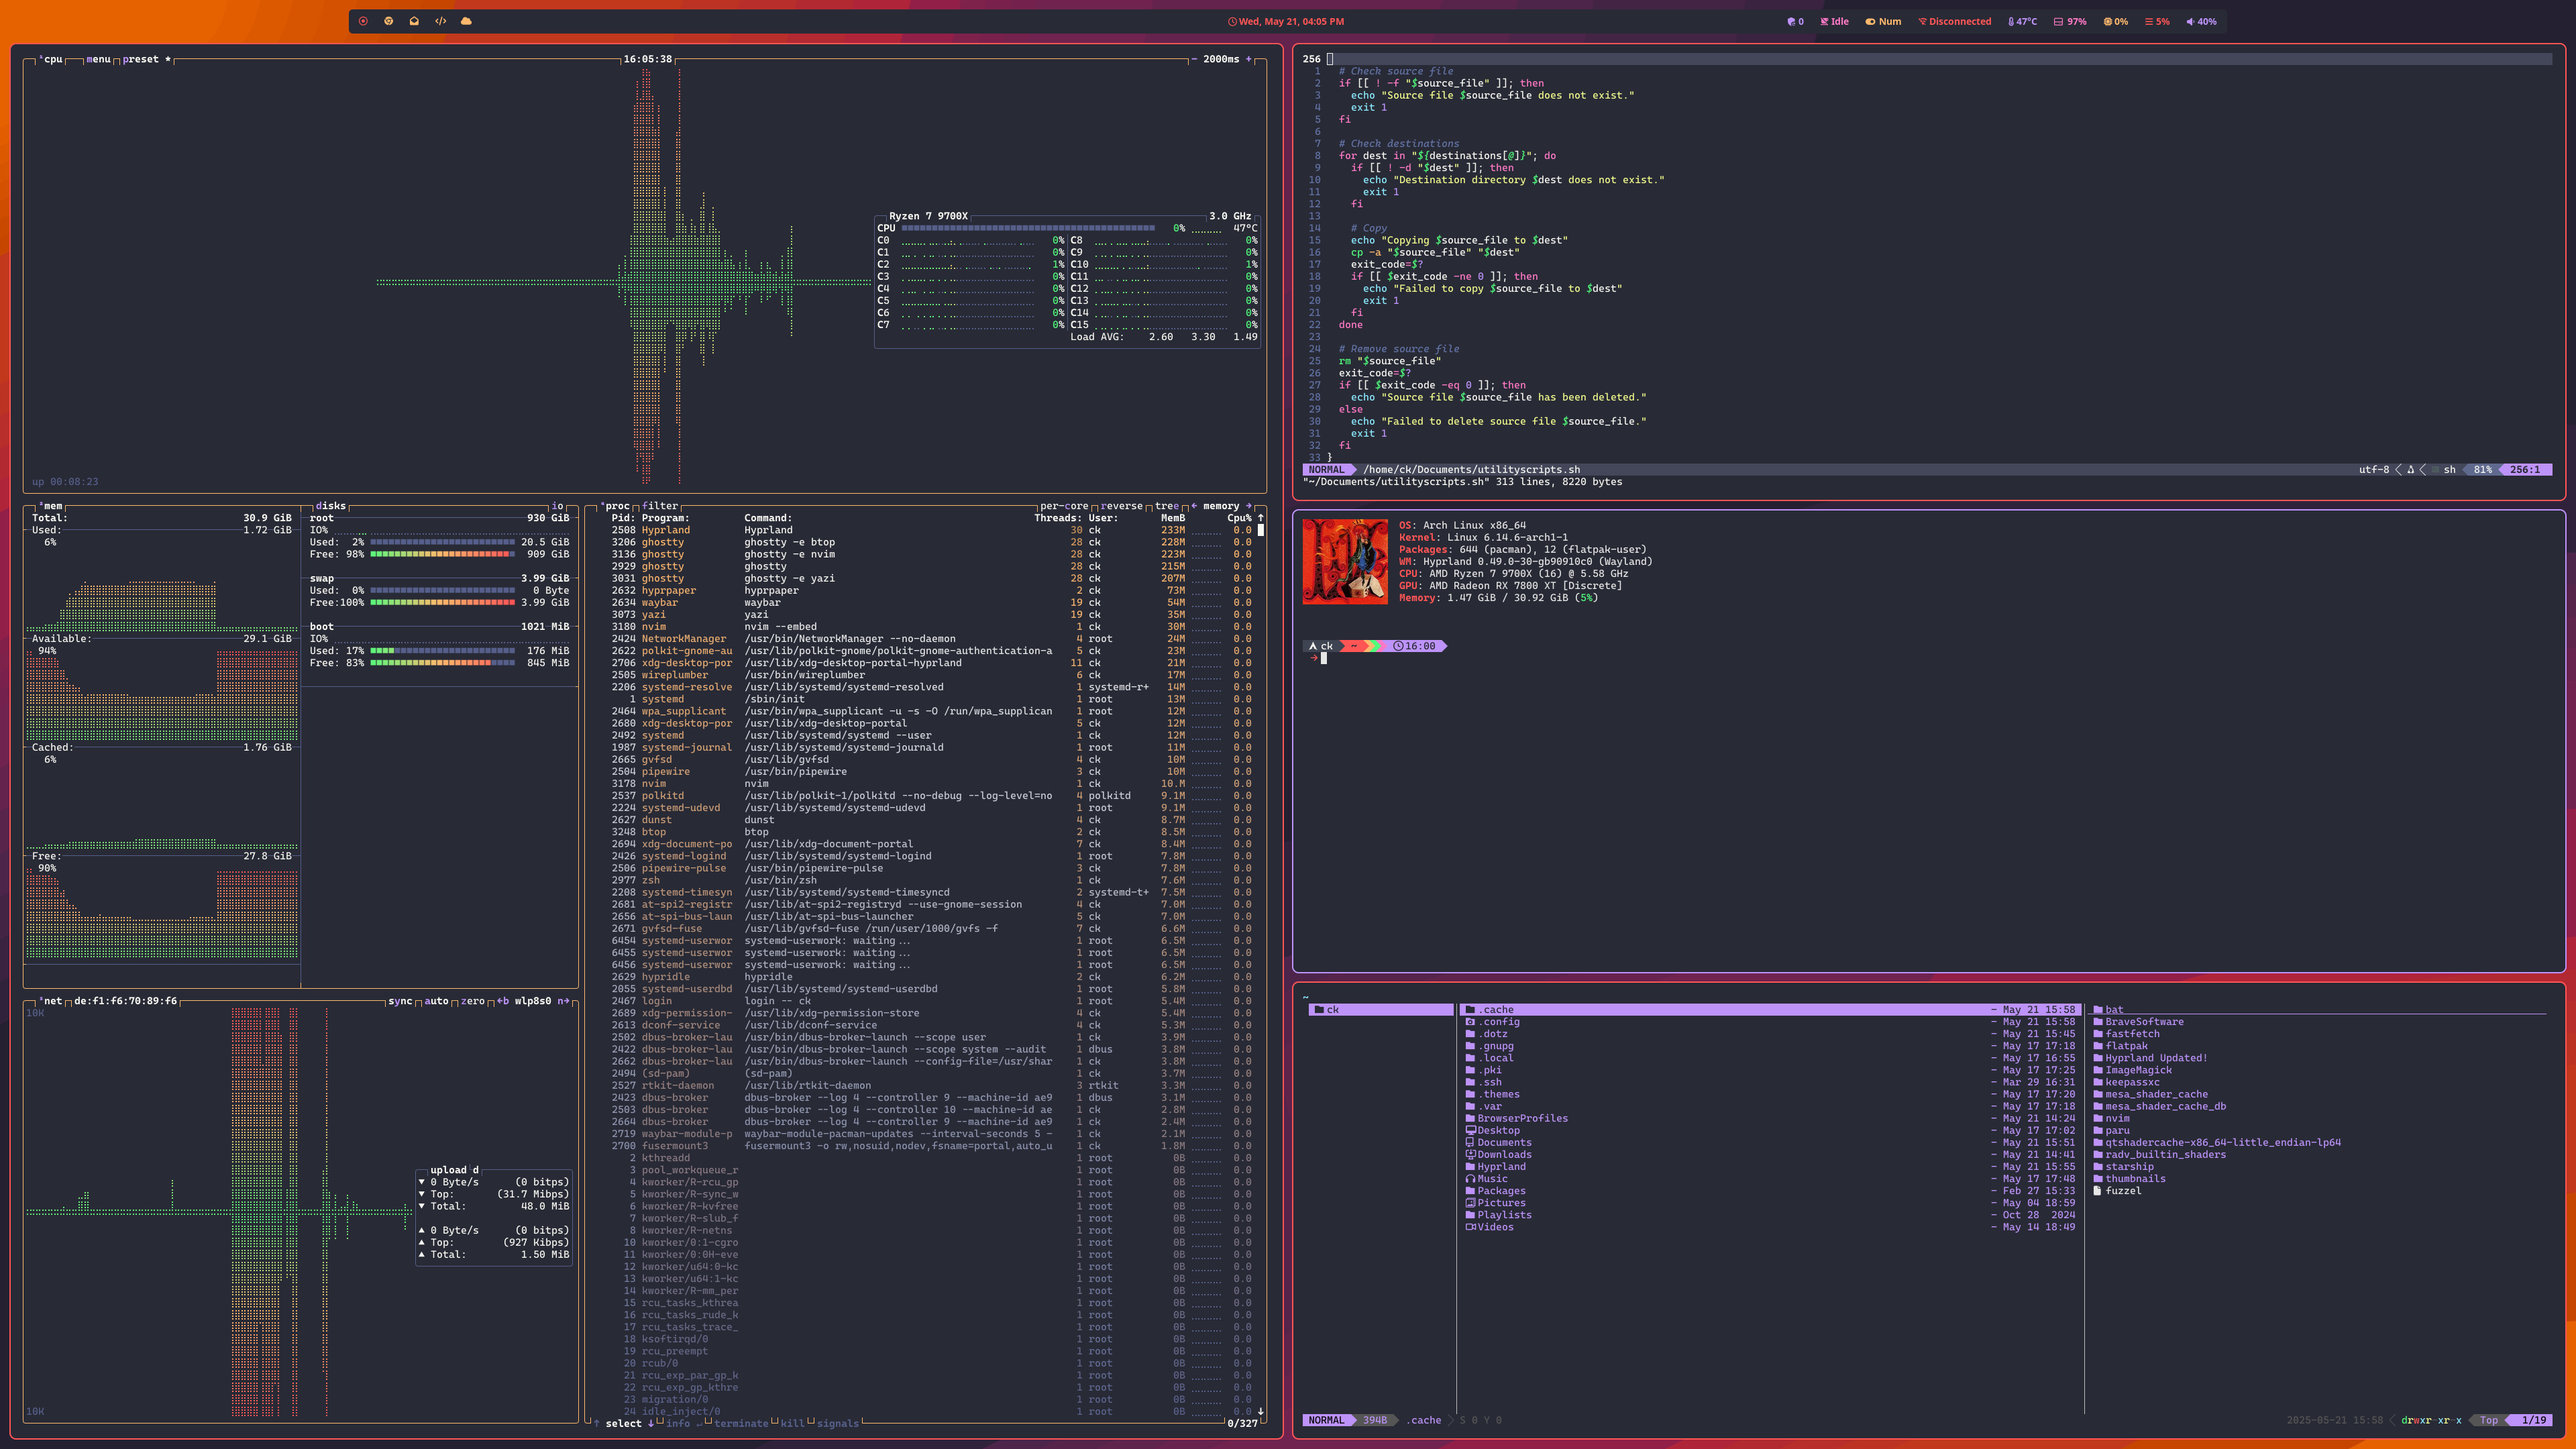
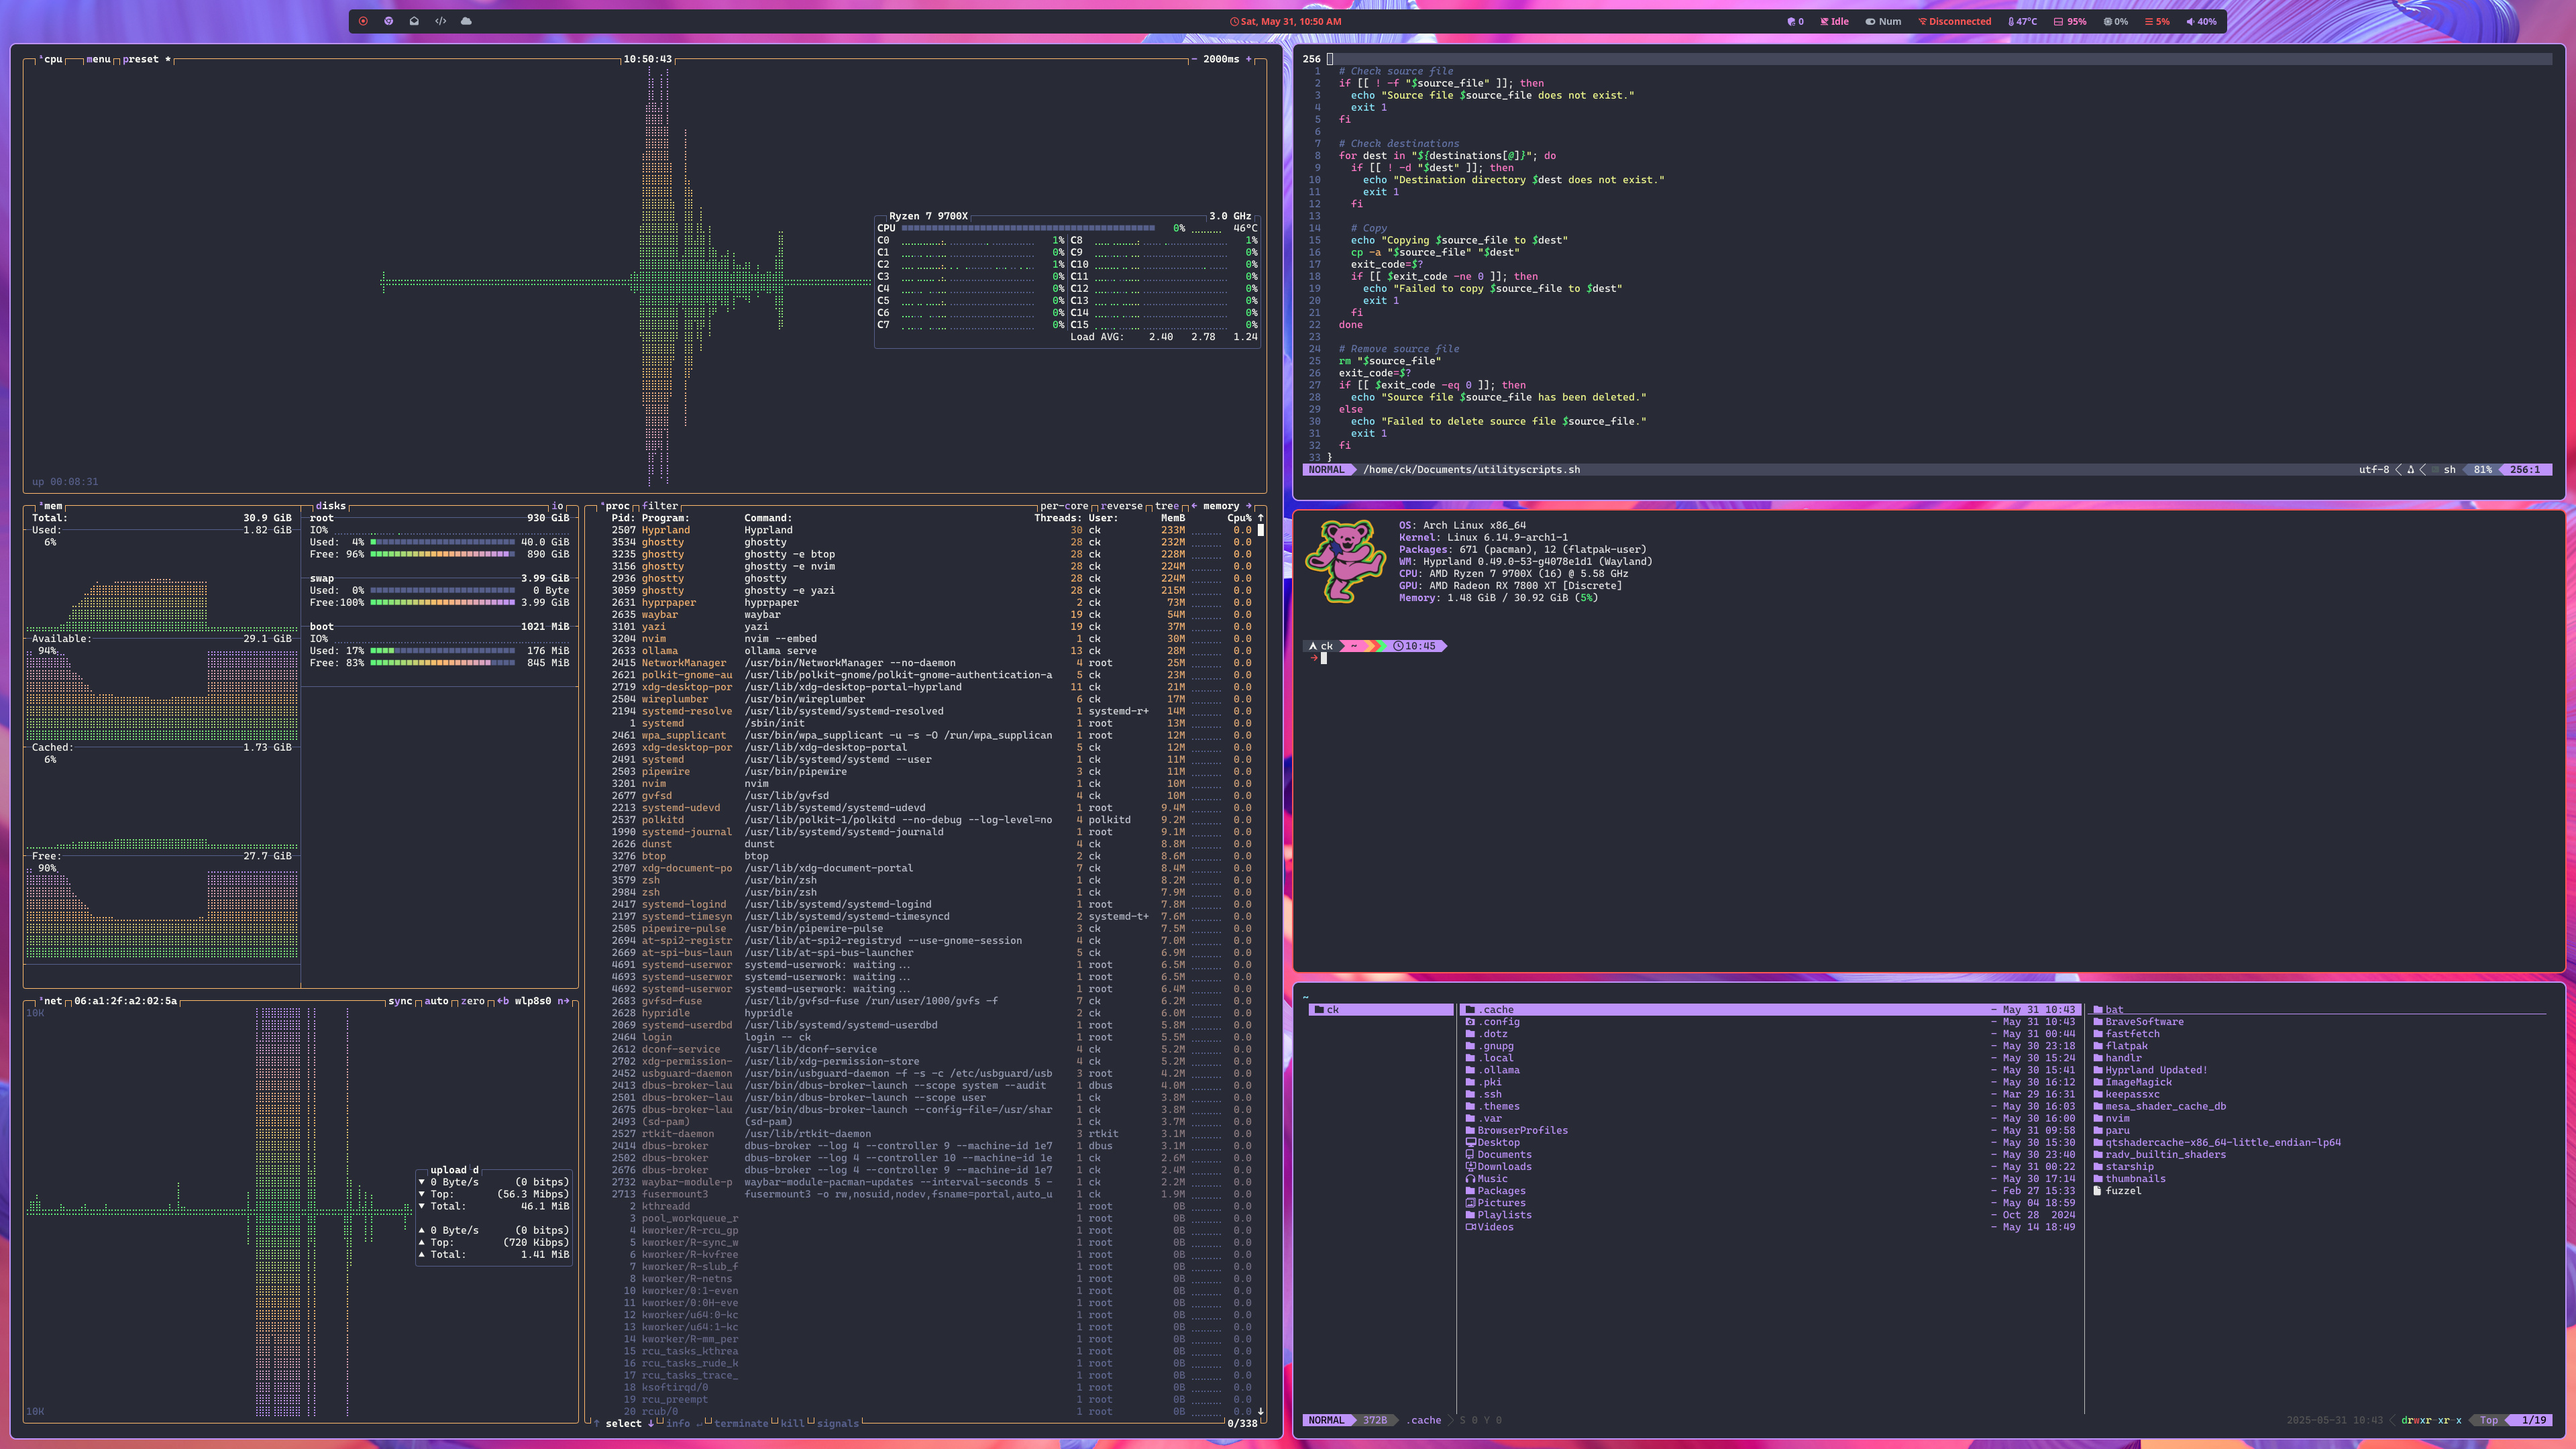
change wallpaper

diff --git a/.config/waybar/style.css b/.config/waybar/style.css
@@ -13,12 +13,12 @@ window#waybar {
 
 tooltip {
   background: #282a36;
-  border: 1.5px solid #ff5555;
+  border: 1.5px solid #bd93f9;
   color: #f8f8f2;
 }
 
 tooltip label {
-  color: #d2d5d9;
+  color: #f8f8f2;
   padding: 2px;
 }
 
@@ -33,7 +33,7 @@ tooltip label {
 }
 
 #workspaces button.empty {
-  color: #ffb86c;
+  color: #abb2bf;
 }
 
 #workspaces button.focused {
@@ -76,7 +76,7 @@ tooltip label {
 }
 
 #keyboard-state {
-  color: #ffb86c;
+  color: #abb2bf;
 }
 
 #network {
@@ -92,7 +92,7 @@ tooltip label {
 }
 
 #cpu {
-  color: #ffb86c;
+  color: #abb2bf;
 }
 
 #memory {
